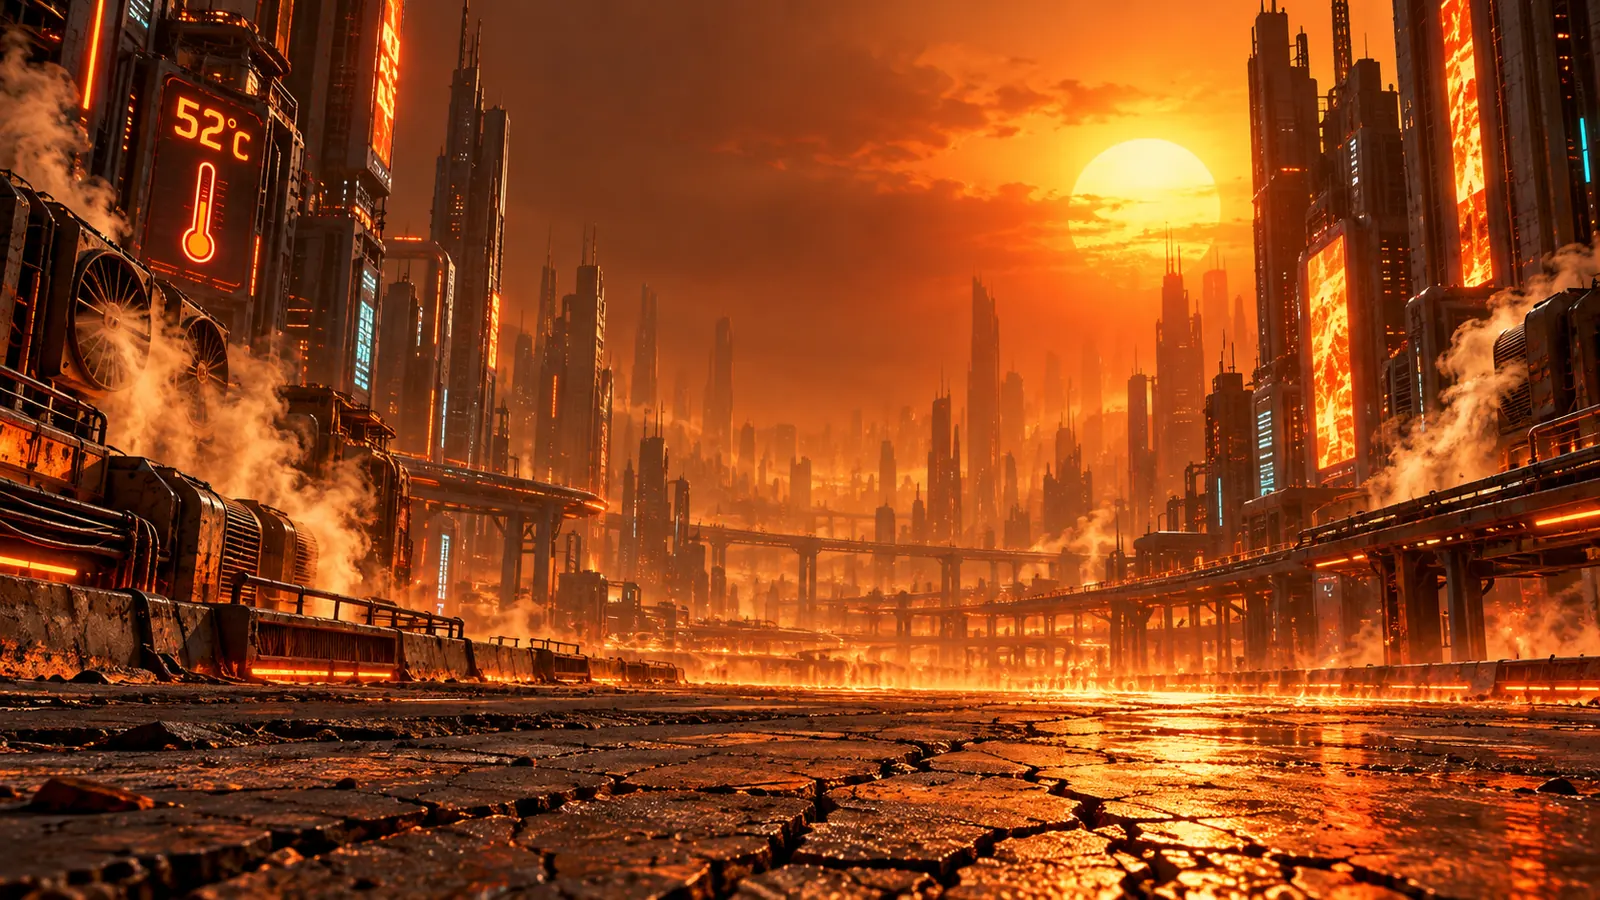
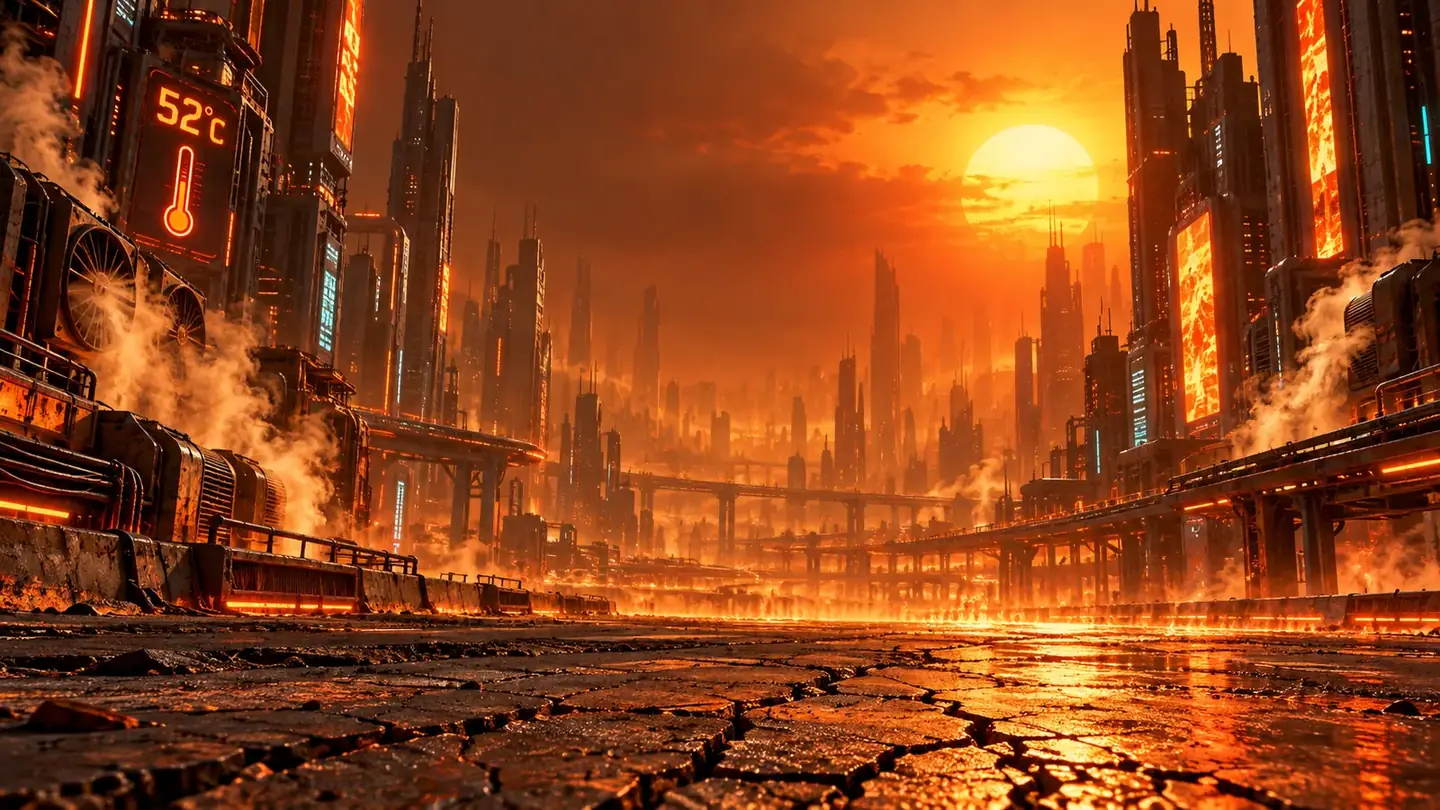
Optimize images for web (WebP, resized screenshots)

Changed region(s): [[0.6875, 0.8951, 0.7188, 0.9259], [0.25, 0.679, 0.2812, 0.7099], [0.125, 0.5556, 0.1562, 0.5864]]

diff --git a/bioradar/index.html b/bioradar/index.html
@@ -40,7 +40,7 @@
   .biomes{display:flex;flex-wrap:wrap;gap:8px;}
   .biomes span{font-size:0.8rem;padding:5px 10px;border-radius:12px;border:1px solid var(--border);color:var(--text-dim);}
   .shots{display:grid;grid-template-columns:repeat(auto-fit,minmax(220px,1fr));gap:16px;}
-  .shots figure{margin:0;} .shots img{width:100%;display:block;border-radius:4px;border:1px solid var(--border);}
+  .shots figure{margin:0;} .shots img{width:100%;height:auto;display:block;border-radius:4px;border:1px solid var(--border);}
   .shots figcaption{margin-top:8px;font-size:0.82rem;color:var(--text-dim);}
   .callout{background:var(--card-alt);border:1px solid var(--warning);border-left-width:3px;border-radius:3px;padding:14px 18px;font-size:0.9rem;color:var(--text);}
   .callout .tag{display:block;font-family:ui-monospace,SFMono-Regular,"SF Mono",Menlo,Consolas,"Courier New",monospace;font-size:0.72rem;letter-spacing:0.08em;text-transform:uppercase;color:var(--warning);margin-bottom:6px;}
@@ -115,9 +115,9 @@
   <div class="wrap">
     <h2>Screenshots</h2>
     <div class="shots">
-      <figure><img src="images/bioradar1.jpg" alt="BioRadar scan results list with species filters" loading="lazy"><figcaption>Scan results, filterable by flora, fauna or taxonomic group</figcaption></figure>
-      <figure><img src="images/bioradar2.jpg" alt="BioRadar main radar screen with scan range selector" loading="lazy"><figcaption>The radar is the interface — every scan queries real observation data</figcaption></figure>
-      <figure><img src="images/bioradar3.jpg" alt="BioRadar Explore screen with the offline biome archive" loading="lazy"><figcaption>Explore — 8 offline biomes, each with its typical flora and fauna</figcaption></figure>
+      <figure><img src="images/bioradar1.webp" width="540" height="1200" alt="BioRadar scan results list with species filters" loading="lazy"><figcaption>Scan results, filterable by flora, fauna or taxonomic group</figcaption></figure>
+      <figure><img src="images/bioradar2.webp" width="540" height="1200" alt="BioRadar main radar screen with scan range selector" loading="lazy"><figcaption>The radar is the interface — every scan queries real observation data</figcaption></figure>
+      <figure><img src="images/bioradar3.webp" width="540" height="1200" alt="BioRadar Explore screen with the offline biome archive" loading="lazy"><figcaption>Explore — 8 offline biomes, each with its typical flora and fauna</figcaption></figure>
     </div>
   </div>
 </section>

diff --git a/ecosurvivor/index.html b/ecosurvivor/index.html
@@ -38,7 +38,7 @@
   .feature .t{font-weight:600;color:var(--text);margin-bottom:6px;}
   .feature .d{color:var(--text-dim);font-size:0.92rem;}
   .shots{display:grid;grid-template-columns:repeat(auto-fit,minmax(220px,1fr));gap:16px;}
-  .shots figure{margin:0;} .shots img{width:100%;display:block;border-radius:4px;border:1px solid var(--border);}
+  .shots figure{margin:0;} .shots img{width:100%;height:auto;display:block;border-radius:4px;border:1px solid var(--border);}
   .shots figcaption{margin-top:8px;font-size:0.82rem;color:var(--text-dim);}
   .callout{background:var(--card-alt);border:1px solid var(--border);border-left:3px solid var(--primary);border-radius:3px;padding:14px 18px;font-size:0.9rem;color:var(--text);}
   .callout .tag{display:block;font-family:ui-monospace,SFMono-Regular,"SF Mono",Menlo,Consolas,"Courier New",monospace;font-size:0.72rem;letter-spacing:0.08em;text-transform:uppercase;color:var(--primary);margin-bottom:6px;}
@@ -105,9 +105,9 @@
   <div class="wrap">
     <h2>Screenshots</h2>
     <div class="shots">
-      <figure><img src="images/ecosurvivor1.jpg" alt="EcoSurvivor Bunker dashboard with total reserves and yearly chart" loading="lazy"><figcaption>The "Bunker" dashboard — reserves, survival index, yearly trend</figcaption></figure>
-      <figure><img src="images/ecosurvivor2.jpg" alt="EcoSurvivor ration plan screen with category budgets" loading="lazy"><figcaption>Rations — a spending ceiling per category</figcaption></figure>
-      <figure><img src="images/ecosurvivor3.jpg" alt="EcoSurvivor ledger and field manual screen" loading="lazy"><figcaption>Ledger &amp; field manual</figcaption></figure>
+      <figure><img src="images/ecosurvivor1.webp" width="540" height="1200" alt="EcoSurvivor Bunker dashboard with total reserves and yearly chart" loading="lazy"><figcaption>The "Bunker" dashboard — reserves, survival index, yearly trend</figcaption></figure>
+      <figure><img src="images/ecosurvivor2.webp" width="540" height="1200" alt="EcoSurvivor ration plan screen with category budgets" loading="lazy"><figcaption>Rations — a spending ceiling per category</figcaption></figure>
+      <figure><img src="images/ecosurvivor3.webp" width="540" height="1200" alt="EcoSurvivor ledger and field manual screen" loading="lazy"><figcaption>Ledger &amp; field manual</figcaption></figure>
     </div>
   </div>
 </section>

diff --git a/hotsummer/index.html b/hotsummer/index.html
@@ -41,7 +41,7 @@
   .feature .t{font-weight:600;color:var(--text);margin-bottom:6px;}
   .feature .d{color:var(--text-dim);font-size:0.92rem;}
   .shots{display:grid;grid-template-columns:repeat(auto-fit,minmax(220px,1fr));gap:16px;}
-  .shots figure{margin:0;} .shots img{width:100%;display:block;border-radius:4px;border:1px solid var(--border);}
+  .shots figure{margin:0;} .shots img{width:100%;height:auto;display:block;border-radius:4px;border:1px solid var(--border);}
   .shots figcaption{margin-top:8px;font-size:0.82rem;color:var(--text-dim);}
   .trust{background:var(--card-alt);border:1px solid var(--border);border-radius:3px;padding:18px 20px;font-size:0.88rem;}
   .trust .row{margin-bottom:8px;} .trust .row:last-child{margin-bottom:0;}
@@ -105,9 +105,9 @@
   <div class="wrap">
     <h2>Screenshots</h2>
     <div class="shots">
-      <figure><img src="images/hotsummer1.jpg" alt="HotSummer home screen showing risk level and nearest green space" loading="lazy"><figcaption>Home — risk index, safe window and nearest green space</figcaption></figure>
-      <figure><img src="images/hotsummer2.jpg" alt="HotSummer settings screen with location options" loading="lazy"><figcaption>Settings — GPS, search, or a point on the map</figcaption></figure>
-      <figure><img src="images/hotsummer3.jpg" alt="HotSummer heatstroke remedies screen" loading="lazy"><figcaption>Remedies — always one tap away, even offline</figcaption></figure>
+      <figure><img src="images/hotsummer1.webp" width="540" height="1200" alt="HotSummer home screen showing risk level and nearest green space" loading="lazy"><figcaption>Home — risk index, safe window and nearest green space</figcaption></figure>
+      <figure><img src="images/hotsummer2.webp" width="540" height="615" alt="HotSummer settings screen with location options" loading="lazy"><figcaption>Settings — GPS, search, or a point on the map</figcaption></figure>
+      <figure><img src="images/hotsummer3.webp" width="540" height="1200" alt="HotSummer heatstroke remedies screen" loading="lazy"><figcaption>Remedies — always one tap away, even offline</figcaption></figure>
     </div>
   </div>
 </section>

diff --git a/bioradar/index.md b/bioradar/index.md
@@ -46,15 +46,15 @@ Location is only used to query iNaturalist; saved points stay on the phone.
 
 ## Screenshots
 
-![BioRadar scan results list with species filters](https://survival-apps.github.io/bioradar/images/bioradar1.jpg)
+![BioRadar scan results list with species filters](https://survival-apps.github.io/bioradar/images/bioradar1.webp)
 
 Scan results, filterable by flora, fauna or taxonomic group
 
-![BioRadar main radar screen with scan range selector](https://survival-apps.github.io/bioradar/images/bioradar2.jpg)
+![BioRadar main radar screen with scan range selector](https://survival-apps.github.io/bioradar/images/bioradar2.webp)
 
 The radar is the interface — every scan queries real observation data
 
-![BioRadar Explore screen with the offline biome archive](https://survival-apps.github.io/bioradar/images/bioradar3.jpg)
+![BioRadar Explore screen with the offline biome archive](https://survival-apps.github.io/bioradar/images/bioradar3.webp)
 
 Explore — 8 offline biomes, each with its typical flora and fauna
 

diff --git a/ecosurvivor/index.md b/ecosurvivor/index.md
@@ -46,15 +46,15 @@ No account, no cloud, no ads: your data stays on the phone.
 
 ## Screenshots
 
-![EcoSurvivor Bunker dashboard with total reserves and yearly chart](https://survival-apps.github.io/ecosurvivor/images/ecosurvivor1.jpg)
+![EcoSurvivor Bunker dashboard with total reserves and yearly chart](https://survival-apps.github.io/ecosurvivor/images/ecosurvivor1.webp)
 
 The "Bunker" dashboard — reserves, survival index, yearly trend
 
-![EcoSurvivor ration plan screen with category budgets](https://survival-apps.github.io/ecosurvivor/images/ecosurvivor2.jpg)
+![EcoSurvivor ration plan screen with category budgets](https://survival-apps.github.io/ecosurvivor/images/ecosurvivor2.webp)
 
 Rations — a spending ceiling per category
 
-![EcoSurvivor ledger and field manual screen](https://survival-apps.github.io/ecosurvivor/images/ecosurvivor3.jpg)
+![EcoSurvivor ledger and field manual screen](https://survival-apps.github.io/ecosurvivor/images/ecosurvivor3.webp)
 
 Ledger & field manual
 

diff --git a/hotsummer/index.md b/hotsummer/index.md
@@ -54,15 +54,15 @@ No ads, no data leaving the phone beyond the weather/map requests needed to work
 
 ## Screenshots
 
-![HotSummer home screen showing risk level and nearest green space](https://survival-apps.github.io/hotsummer/images/hotsummer1.jpg)
+![HotSummer home screen showing risk level and nearest green space](https://survival-apps.github.io/hotsummer/images/hotsummer1.webp)
 
 Home — risk index, safe window and nearest green space
 
-![HotSummer settings screen with location options](https://survival-apps.github.io/hotsummer/images/hotsummer2.jpg)
+![HotSummer settings screen with location options](https://survival-apps.github.io/hotsummer/images/hotsummer2.webp)
 
 Settings — GPS, search, or a point on the map
 
-![HotSummer heatstroke remedies screen](https://survival-apps.github.io/hotsummer/images/hotsummer3.jpg)
+![HotSummer heatstroke remedies screen](https://survival-apps.github.io/hotsummer/images/hotsummer3.webp)
 
 Remedies — always one tap away, even offline
 
